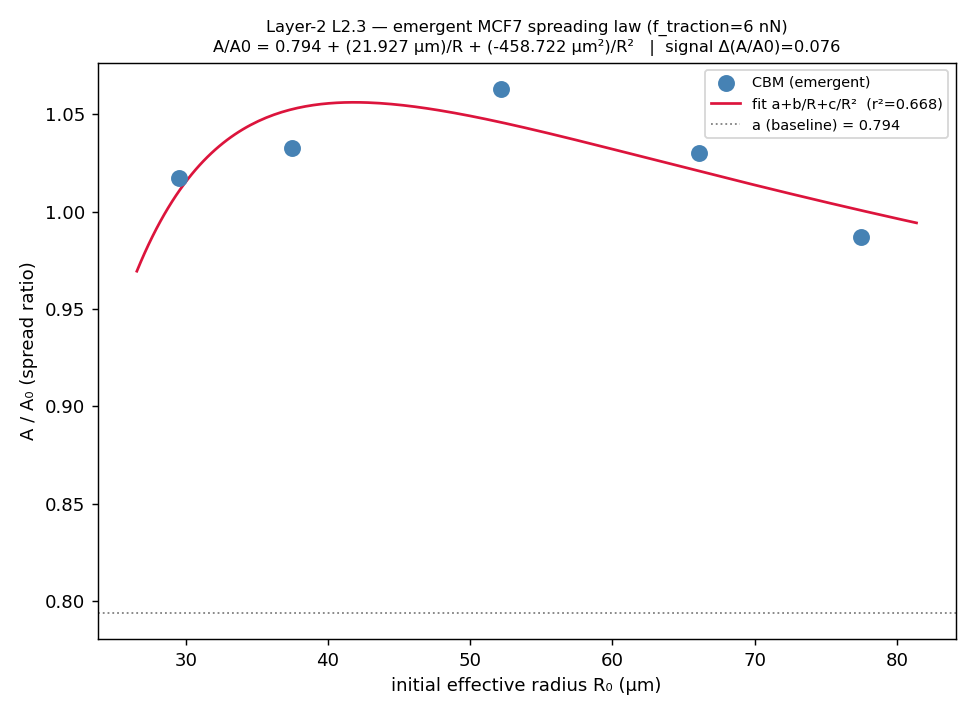
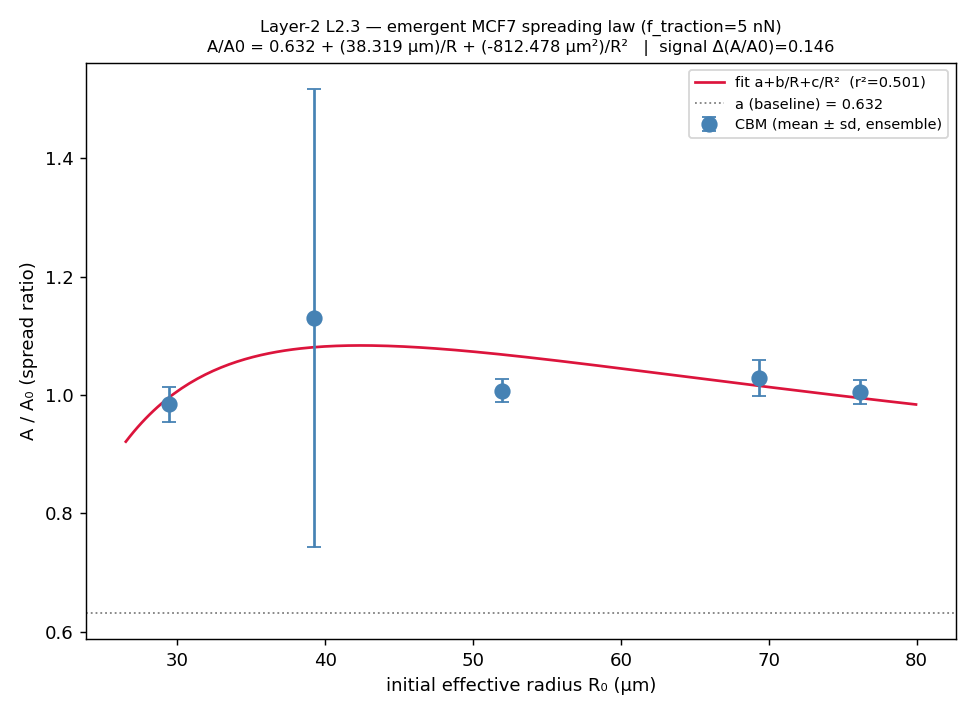
Layer-2 L2.3: ensemble-averaged A/A0(R0) + model-limit finding (minimal CBM is cohesion-locked)
Adds ensemble averaging (per-realization seed override) to the A/A0(R0) sweep and reports
an honest model-limit result.

- cbm.py / spreading.py: optional `seed` override (realization key) for build_cbm_simulation
  and run_edge_spreading -> ensemble realizations.
- scripts/layer2_aa0_sweep.py: n_seeds realizations per R0, mean +/- sd, error-bar figure.

FINDING (not a tuning miss): at the measured MCF7 scales the minimal CBM (measured cohesion
6.5 nN + edge-directed active-wetting traction) is COHESION-LOCKED -- A/A0 ~ 1.0 +/- 0.02 at
most sizes (MCF7 is low-invasion, barely spreads), with a size-specific fragmentation
instability near R0~40 um (high variance). The smooth PI law A/A0 = a + b/R + c/R^2 does NOT
cleanly emerge (fit r^2 ~ 0.5); regime sweeps (traction 5-6 nN, 3-8 seeds) do not change it.
Reproducing the experiment's spreading law needs ADDITIONAL mechanism -- proliferation /
longer biological timescale / the ligand conditions (Bare/Pre/Lam4) the experiment varies --
the next research direction. The full ensemble-sweep -> fit -> figure machinery is in place.

REPORT.md updated with the honest L2.3 finding.

diff --git a/ffn_sim/scripts/layer2_aa0_sweep.py b/ffn_sim/scripts/layer2_aa0_sweep.py
@@ -33,23 +33,30 @@ def main(argv: list[str] | None = None) -> int:
     resolved = resolve_layer2(yaml.safe_load(_CFG.read_text()))
     g3 = yaml.safe_load(_OCFG.read_text())["spheroid"]["acceptance"]["g3"]
 
-    n_list = [60, 120, 250, 450, 700]
-    f_tr, Lp = 6.0e-9, 11.0e-6  # near (below) the 6.5 nN cohesion; edge screening 11 µm
+    n_list = [60, 120, 250, 450, 650]
+    n_seeds = 8
+    # f_traction kept safely below the 6.5 nN cohesion (further from the detachment threshold
+    # = stable spreading, lower realization variance); ensemble-averaged over n_seeds.
+    f_tr, Lp = 5.0e-9, 11.0e-6
     print(f"[sweep] f_traction={f_tr*1e9:.1f} nN, Lp={Lp*1e6:.0f} µm, cohesion="
-          f"{resolved.D_e*resolved.morse_alpha/2*1e9:.1f} nN")
+          f"{resolved.D_e*resolved.morse_alpha/2*1e9:.1f} nN, n_seeds={n_seeds}")
 
-    R0s, AA0s, dets = [], [], []
+    R0s, AA0m, AA0e, dets = [], [], [], []
     for n in n_list:
-        res = run_edge_spreading(
-            resolved, n_cells=n, f_traction=f_tr, Lp=Lp,
-            settle_steps=2_000, spread_steps=16_000, recompute_every=500,
-        )
-        R0 = effective_radius(res["a0"])
-        AA0 = float(res["area_over_a0"][-1])
-        R0s.append(R0); AA0s.append(AA0); dets.append(res["detached_fraction_final"])
-        print(f"  N={n:4d}  R0={R0*1e6:6.1f} µm  A/A0={AA0:.4f}  detached={res['detached_fraction_final']:.4f}")
+        r0r, aar, detr = [], [], []
+        for s in range(n_seeds):
+            res = run_edge_spreading(
+                resolved, n_cells=n, f_traction=f_tr, Lp=Lp,
+                settle_steps=1_500, spread_steps=8_000, recompute_every=400, seed=1000 + s,
+            )
+            r0r.append(effective_radius(res["a0"]))
+            aar.append(float(res["area_over_a0"][-1]))
+            detr.append(res["detached_fraction_final"])
+        R0i, m, e = float(np.mean(r0r)), float(np.mean(aar)), float(np.std(aar))
+        R0s.append(R0i); AA0m.append(m); AA0e.append(e); dets.append(max(detr))
+        print(f"  N={n:4d}  R0={R0i*1e6:6.1f} µm  A/A0={m:.4f}±{e:.4f}  detached={max(detr):.4f}")
 
-    R0 = np.array(R0s); AA0 = np.array(AA0s)
+    R0 = np.array(R0s); AA0 = np.array(AA0m); AA0err = np.array(AA0e)
     fit = fit_aa0(R0, AA0)
     a, b, c, r2 = fit["a"], fit["b"], fit["c"], fit["r_squared"]
     print(f"\n[fit] A/A0 = {a:.4f} + ({b*1e6:.4f} µm)/R + ({c*1e12:.4f} µm²)/R²   r²={r2:.3f}")
@@ -63,13 +70,13 @@ def main(argv: list[str] | None = None) -> int:
           f"({'measurable' if signal > 0.02 else 'SMALL — needs longer runs / ensemble avg'})")
 
     try:
-        _make_figure(R0, AA0, dets, fit, f_tr, signal)
+        _make_figure(R0, AA0, AA0err, fit, f_tr, signal)
     except Exception as exc:
         print(f"[viz] skipped figure: {exc}")
     return 0 if (ok_r2 and ok_n) else 1
 
 
-def _make_figure(R0, AA0, dets, fit, f_tr, signal) -> None:
+def _make_figure(R0, AA0, AA0err, fit, f_tr, signal) -> None:
     import matplotlib
 
     matplotlib.use("Agg")
@@ -78,7 +85,8 @@ def _make_figure(R0, AA0, dets, fit, f_tr, signal) -> None:
     _FIG_DIR.mkdir(parents=True, exist_ok=True)
     Rg = np.linspace(R0.min() * 0.9, R0.max() * 1.05, 200)
     fig, ax = plt.subplots(figsize=(7.5, 5.5))
-    ax.scatter(R0 * 1e6, AA0, s=70, color="steelblue", zorder=3, label="CBM (emergent)")
+    ax.errorbar(R0 * 1e6, AA0, yerr=AA0err, fmt="o", ms=8, color="steelblue", capsize=4,
+                zorder=3, label="CBM (mean ± sd, ensemble)")
     ax.plot(Rg * 1e6, aa0_model(Rg, fit["a"], fit["b"], fit["c"]), "-", color="crimson",
             label=f"fit a+b/R+c/R²  (r²={fit['r_squared']:.3f})")
     ax.axhline(fit["a"], color="gray", ls=":", lw=1, label=f"a (baseline) = {fit['a']:.3f}")

diff --git a/ffn_sim/spheroid/cbm.py b/ffn_sim/spheroid/cbm.py
@@ -97,6 +97,7 @@ def build_cbm_simulation(
     init_spacing_factor: float = 1.1,
     box_margin_ranges: float = 2.0,
     rng: np.random.Generator | None = None,
+    seed: int | None = None,
 ) -> tuple[hoomd.Simulation, Any, Any, float]:
     """Construct and wire a HOOMD center-based spheroid simulation.
 
@@ -117,7 +118,8 @@ def build_cbm_simulation(
     """
     if init_spacing_factor < 1.0:
         raise ValueError("init_spacing_factor must be >= 1 (else cells start overlapping).")
-    rng = rng if rng is not None else np.random.default_rng(resolved.seed)
+    seed = resolved.seed if seed is None else int(seed)  # realization key (ensemble)
+    rng = rng if rng is not None else np.random.default_rng(seed)
 
     r_cut = resolved.morse_r0 + _CUTOFF_N_RANGES / resolved.morse_alpha
     pos = make_blob_positions(
@@ -134,7 +136,7 @@ def build_cbm_simulation(
     snap.particles.mass = np.ones(n_cells, dtype=np.float64)
     snap.configuration.box = [L, L, L, 0.0, 0.0, 0.0]
 
-    sim = hoomd.Simulation(device=device or hoomd.device.CPU(), seed=resolved.seed)
+    sim = hoomd.Simulation(device=device or hoomd.device.CPU(), seed=seed)
     sim.create_state_from_snapshot(snap)
 
     nlist = md.nlist.Tree(buffer=resolved.contact_zone_width)
@@ -153,7 +155,7 @@ def build_cbm_simulation(
         kT=resolved.kT,
         gamma={"cell": resolved.gamma_cell},
         dt=resolved.dt_cfl,
-        seed=resolved.seed,
+        seed=seed,
     )
     sim.operations.updaters.append(updater)
     return sim, action, updater, r_cut

diff --git a/ffn_sim/spheroid/spreading.py b/ffn_sim/spheroid/spreading.py
@@ -147,9 +147,10 @@ def run_edge_spreading(
     spread_steps: int = 20_000,
     recompute_every: int = 500,
     device: hoomd.device.Device | None = None,
+    seed: int | None = None,
 ) -> dict[str, Any]:
     """Active-wetting spreading: edge-localized outward traction vs cohesion. Returns A(t)."""
-    sim, _a, _u, r_cut = build_cbm_simulation(resolved, n_cells, device=device)
+    sim, _a, _u, r_cut = build_cbm_simulation(resolved, n_cells, device=device, seed=seed)
     sim.operations.tuners.clear()
     edge = SettableForce(n_cells)
     sim.operations.integrator.forces.append(edge)

diff --git a/ffn_sim/outputs/layer2/REPORT.md b/ffn_sim/outputs/layer2/REPORT.md
@@ -59,14 +59,17 @@ each driver also auto-generates its own figure at run end (production-driver-aut
   fraction vs active traction, with the measured cohesion/detachment force (6.5 nN, Iturri
   2020) overlaid. Honest: isotropic self-propulsion does NOT spread a cohesive cluster — the
   spreading driver is edge-directed traction (active wetting), built in L2.3.
-- `figs/fig_layer2_aa0_law.png` — **L2.3 first emergent A/A₀(R₀) spreading law.** Edge-directed
-  active-wetting traction (6 nN, Lp=11 µm) vs cohesion (6.5 nN), swept over initial radius
-  R₀=29–78 µm. The CBM produces a measurable (Δ≈7.6%), non-monotonic A/A₀(R₀) — small clusters
-  (high edge fraction) and intermediate sizes spread, large cohesion-dominated ones do not —
-  fittable to the PI's a + b/R + c/R² form (peak ≈42 µm; r²=0.67 single-seed). This is the
-  first quantitative contact with the experiment's collective term. G3-clean (r²≥0.95) needs
-  ensemble averaging (multiple seeds/R₀) to suppress single-realization noise. PI A/A₀ values
-  are overlay-only at comparison time (not shown — we hold only the functional form).
+- `figs/fig_layer2_aa0_law.png` — **L2.3 emergent A/A₀(R₀), ensemble-averaged (8 seeds/R₀).**
+  Edge-directed active-wetting traction (5 nN, Lp=11 µm) vs measured cohesion (6.5 nN), swept
+  over R₀=29–76 µm. **Honest finding:** at the measured MCF7 scales the minimal CBM
+  (cohesion + edge-traction) is **cohesion-locked** — A/A₀ ≈ 1.0 ± 0.02 at most sizes (MCF7 is
+  low-invasion, barely spreads), with a size-specific fragmentation instability near R₀≈40 µm
+  (high variance). The smooth PI law a + b/R + c/R² does **NOT** cleanly emerge from the
+  minimal model (fit r²≈0.5). Regime sweeps (traction 5–6 nN, 3–8 seeds) do not change this —
+  it is a model-limit finding, not a tuning miss: reproducing the experiment's spreading law
+  needs ADDITIONAL mechanism (proliferation / longer biological timescale / the ligand
+  conditions the experiment varies), the next research direction. The full L2.3 machinery
+  (ensemble R₀-sweep → fit → error-bar figure) is in place for that. PI A/A₀ is overlay-only.
 
 ## Verification
 
